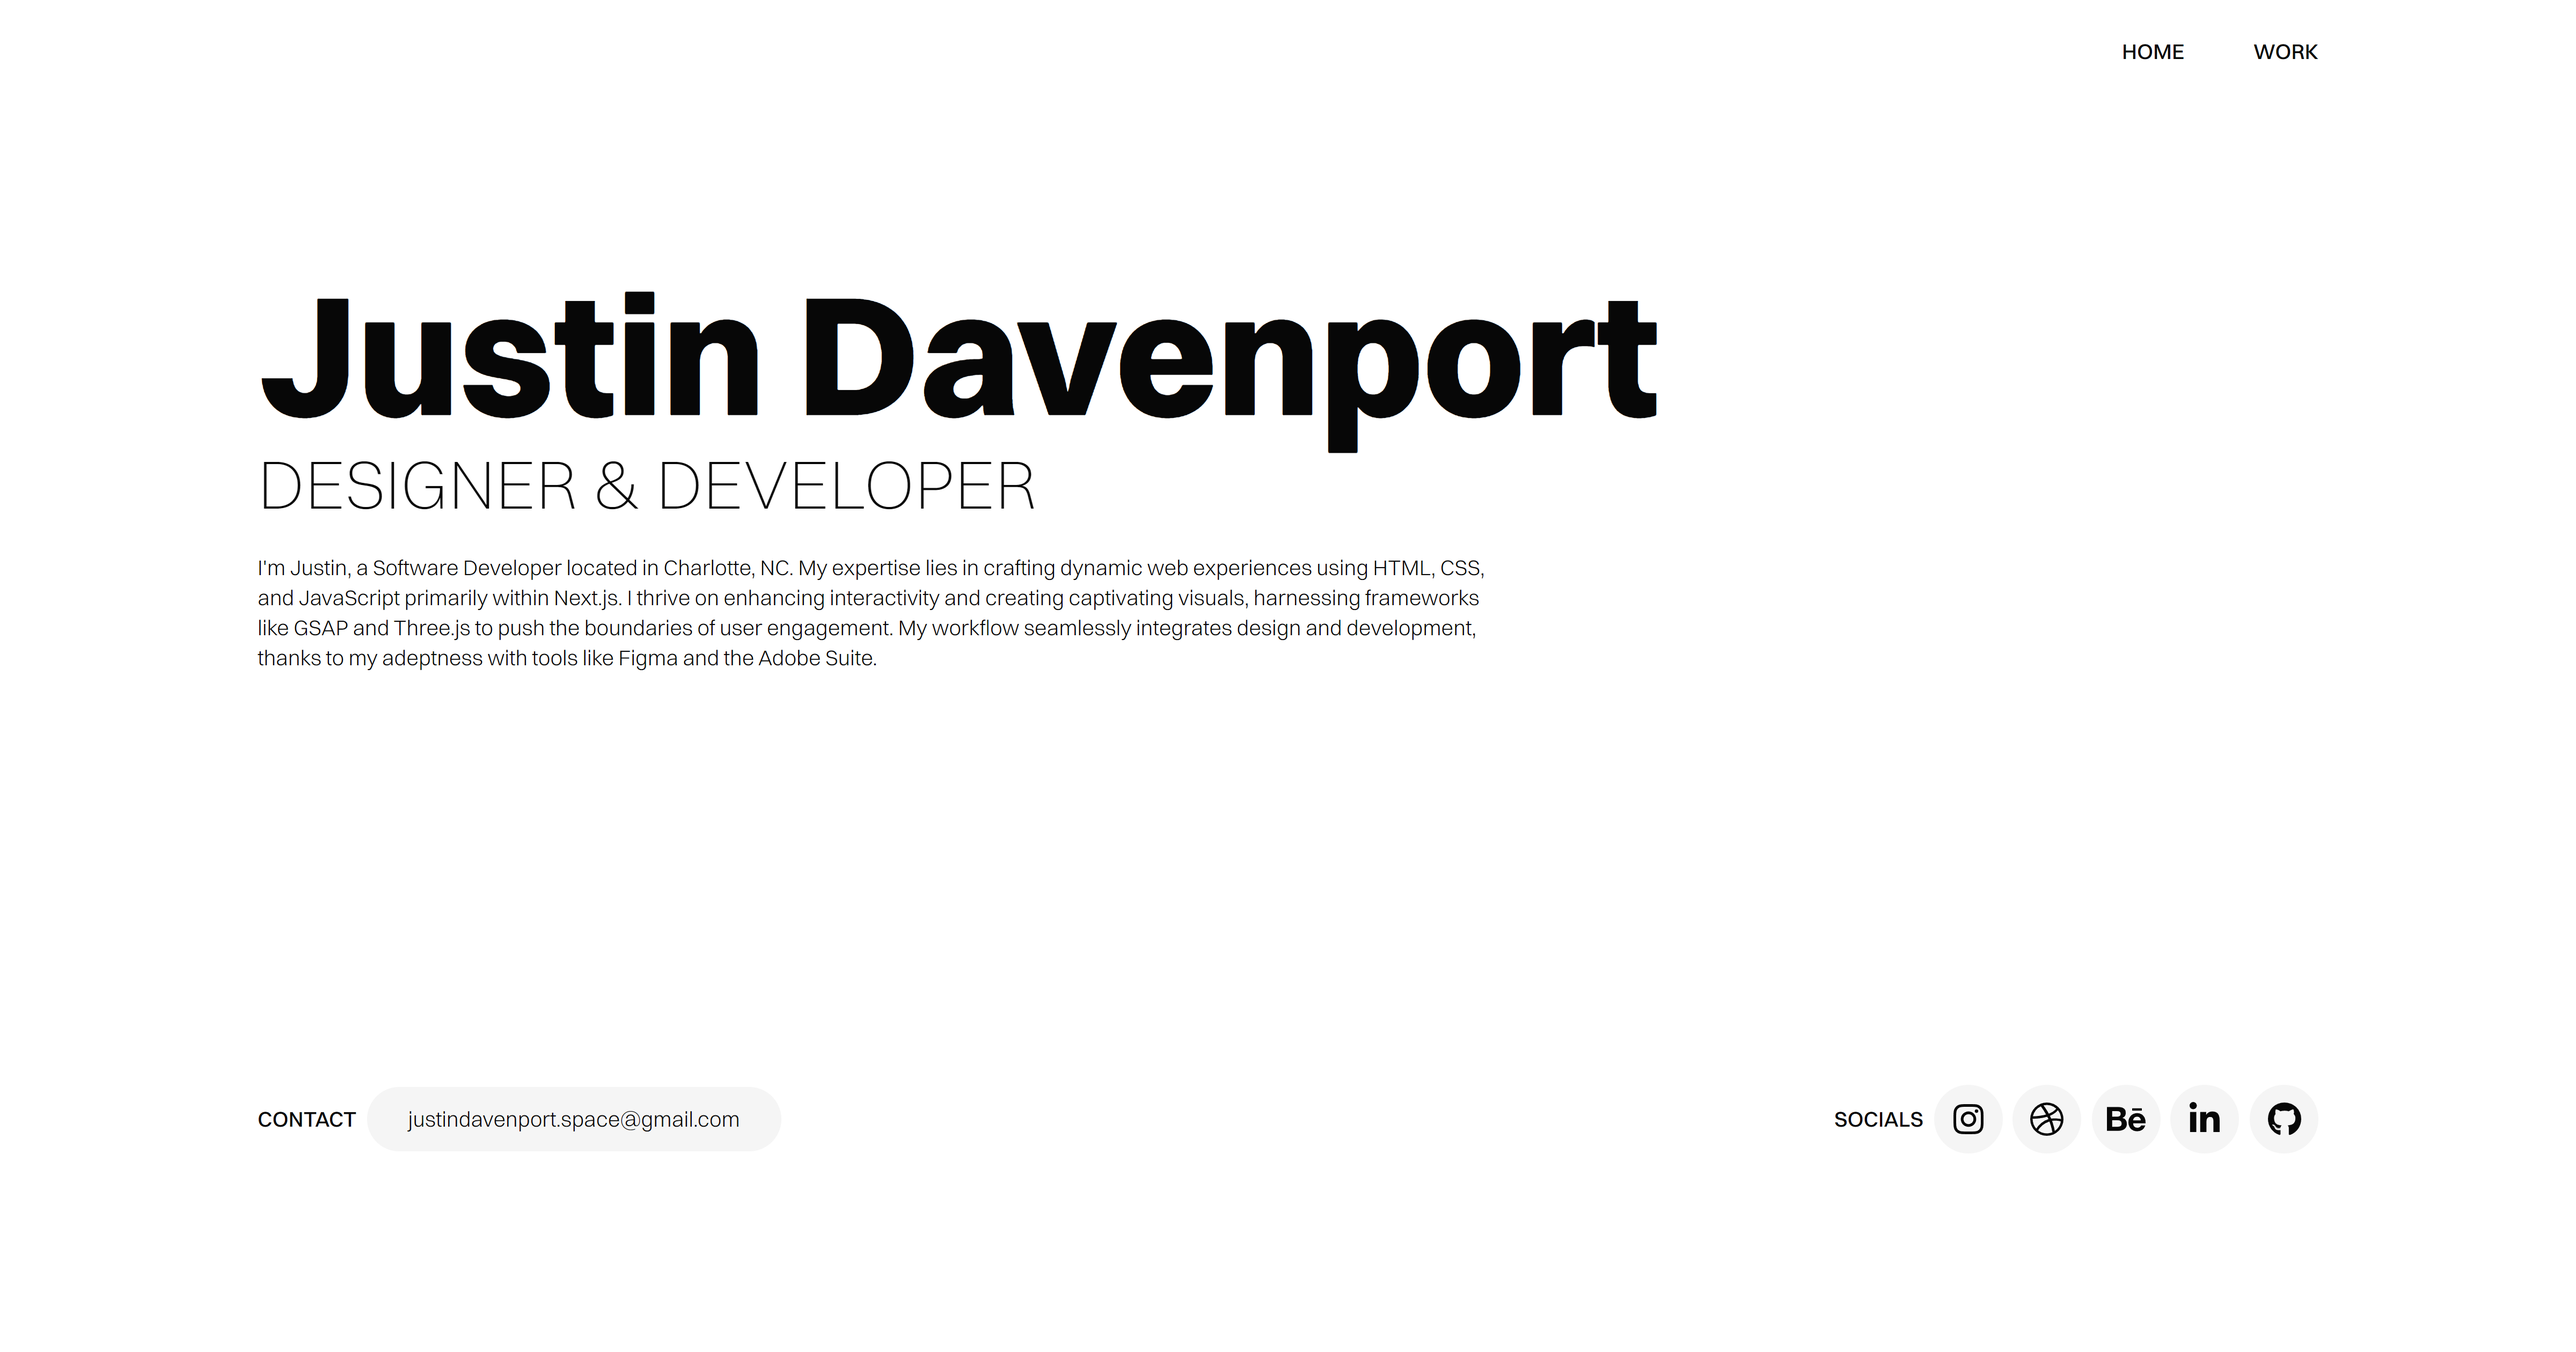
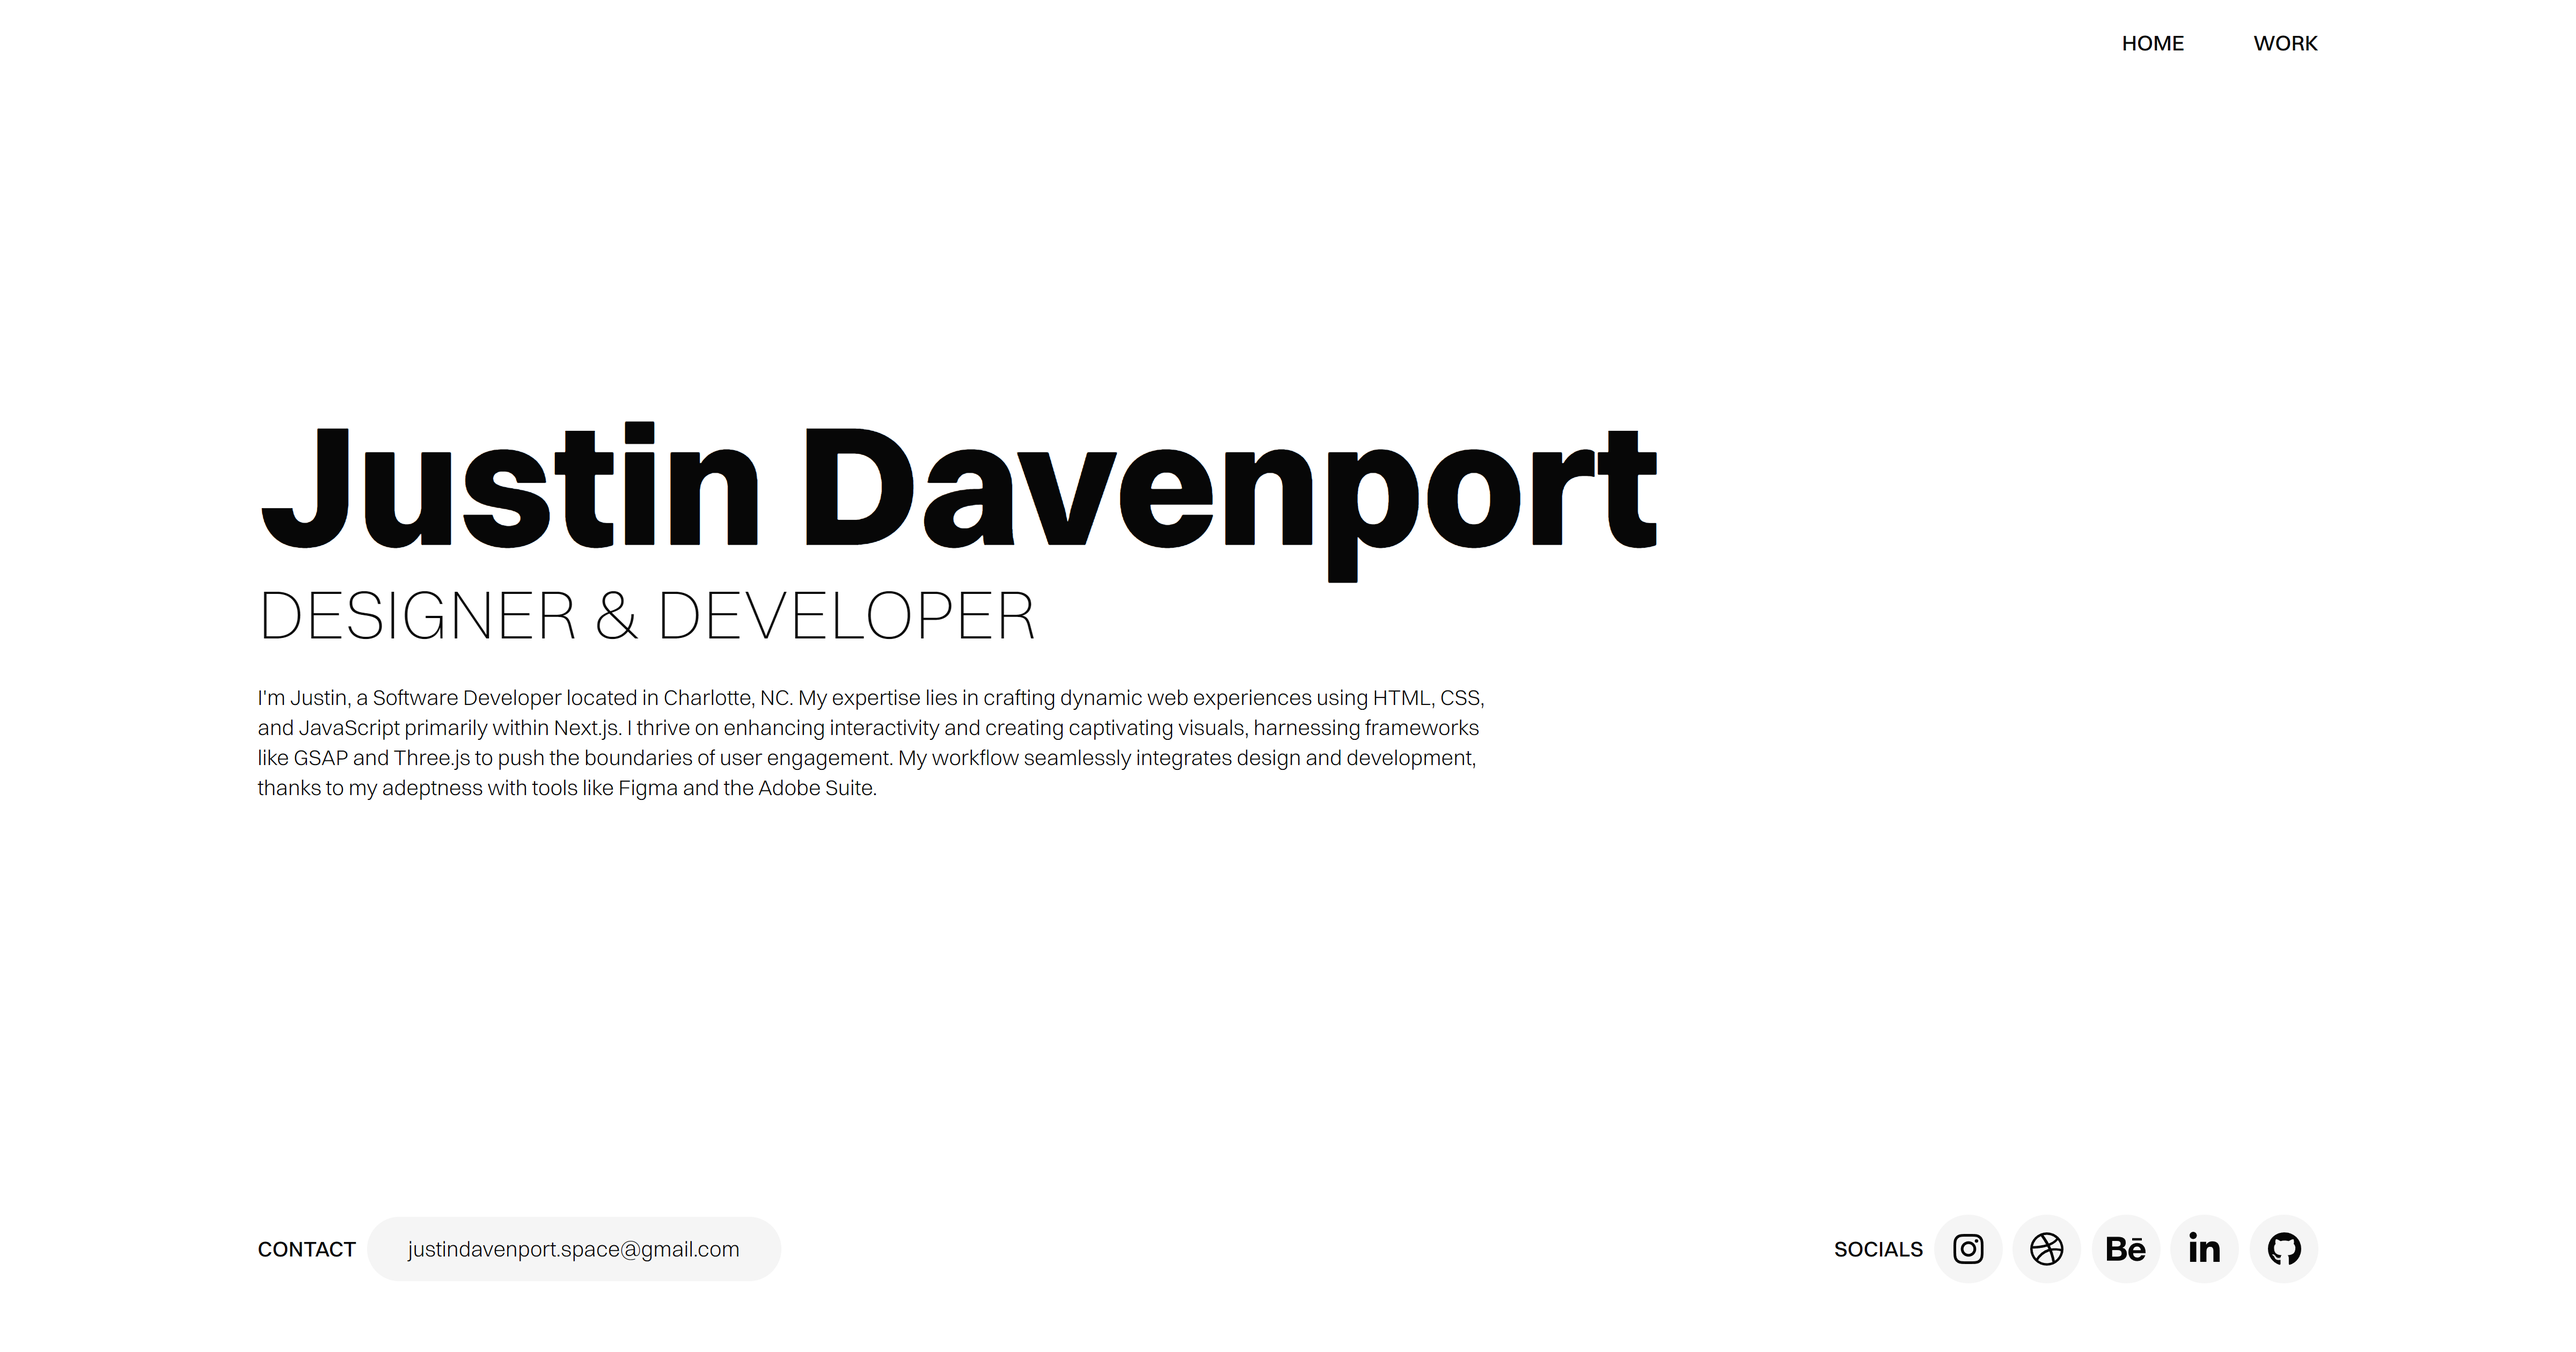
+

diff --git a/src/app/page.tsx b/src/app/page.tsx
@@ -21,14 +21,14 @@ export default function Home() {
       if (currentScroll <= threshold && nav.current) {
         if (nav.current.style.top !== "0rem") {
           nav.current.style.top = "0rem";
-          nav.current.style.height = "6rem";
+          nav.current.style.height = "5rem";
         }
       } else if (currentScroll < lastScroll && nav.current) {
         nav.current.style.top = "0rem";
-        nav.current.style.height = "6rem";
+        nav.current.style.height = "5rem";
       } else if (currentScroll > lastScroll && nav.current) {
-        nav.current.style.top = "-6.25rem";
-        nav.current.style.height = "6rem";
+        nav.current.style.top = "-5.25rem";
+        nav.current.style.height = "5rem";
       }
       setLastScroll(currentScroll);
     };
@@ -53,7 +53,7 @@ export default function Home() {
       </div>
 
       <div className="container-holder-top">
-        <div className="container">
+        <div className="container" style={{ marginBottom: "4rem" }}>
           <h1>Justin Davenport</h1>
           <div style={{ marginTop: "0.6rem" }}>
             <h2>DESIGNER & DEVELOPER</h2>
@@ -256,7 +256,16 @@ export default function Home() {
               alt={""}
             />
             <span style={{ textAlign: "left" }}>OCULAR VIBRATIONS™</span>
-            <p style={{ lineHeight: "0" }}>2024</p>
+            <p>Design Studio</p>
+            <p
+              style={{
+                lineHeight: "0",
+                fontWeight: "500",
+                fontSize: "clamp(12px, 2vw, 18px)",
+              }}
+            >
+              2024
+            </p>
           </Link>
 
           <Link
@@ -276,13 +285,22 @@ export default function Home() {
           >
             <img
               className="img-lg"
-              src="/stack1.png"
+              src="/stack.png"
               width={1920}
               height={1080}
               alt={""}
             />
             <span style={{ textAlign: "left" }}>Stack</span>
-            <p style={{ lineHeight: "0" }}>2024</p>
+            <p>Social Media Platform</p>
+            <p
+              style={{
+                lineHeight: "0",
+                fontWeight: "500",
+                fontSize: "clamp(12px, 2vw, 18px)",
+              }}
+            >
+              2024
+            </p>
           </Link>
 
           <Link
@@ -308,7 +326,16 @@ export default function Home() {
               alt={""}
             />
             <span style={{ textAlign: "left" }}>OCULAR VIBRATIONS™</span>
-            <p style={{ lineHeight: "0" }}>2024</p>
+            <p>Design Studio</p>
+            <p
+              style={{
+                lineHeight: "0",
+                fontWeight: "500",
+                fontSize: "clamp(12px, 2vw, 18px)",
+              }}
+            >
+              2024
+            </p>
           </Link>
 
           <Link
@@ -334,7 +361,16 @@ export default function Home() {
               alt={""}
             />
             <span style={{ textAlign: "left" }}>Danilo Scarpati</span>
-            <p style={{ lineHeight: "0" }}>2024</p>
+            <p>Art Gallery</p>
+            <p
+              style={{
+                lineHeight: "0",
+                fontWeight: "500",
+                fontSize: "clamp(12px, 2vw, 18px)",
+              }}
+            >
+              2024
+            </p>
           </Link>
         </div>
       </div>

diff --git a/src/app/globals.css b/src/app/globals.css
@@ -103,7 +103,7 @@
     justify-content: right;
     align-items: center;
     gap: 2rem;
-    height: 6rem;
+    height: 5rem;
   }
 
   .container-holder,
@@ -119,7 +119,7 @@
 
   .container-holder-top {
     margin-block: 0rem;
-    margin-top: 4rem;
+    align-items: flex-end;
   }
 
   .container {
@@ -162,7 +162,7 @@
   .text-holder {
     width: 100%;
     margin-top: 2rem;
-    margin-bottom: 4rem;
+    margin-bottom: 6rem;
   }
 
   a:hover {
@@ -182,6 +182,12 @@
   }
 }
 
+@media (min-width: 799px) {
+  .text-holder {
+    margin-bottom: 8rem;
+  }
+}
+
 @media (min-width: 1499px) {
   h2 {
     font-weight: 200;
@@ -192,17 +198,13 @@
     gap: 4rem;
   }
 
-  .container-holder-top {
-    margin-top: 2rem;
-  }
-
   .container {
     width: 80%;
   }
 
   .text-holder {
     width: 60%;
-    margin-bottom: 10rem;
+    margin-bottom: 12rem;
   }
 
   .img-lg {
